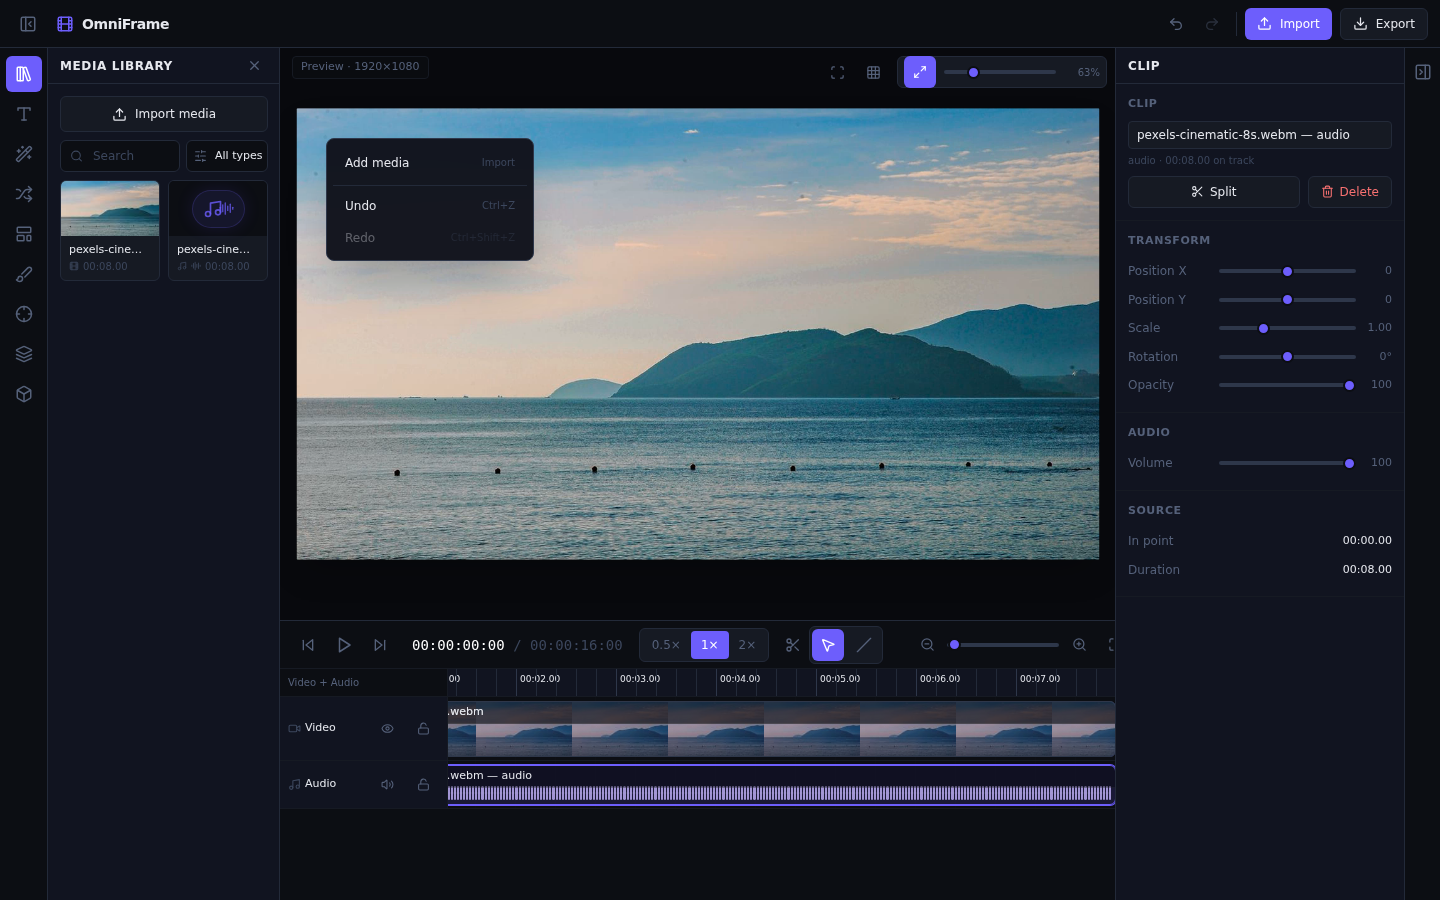
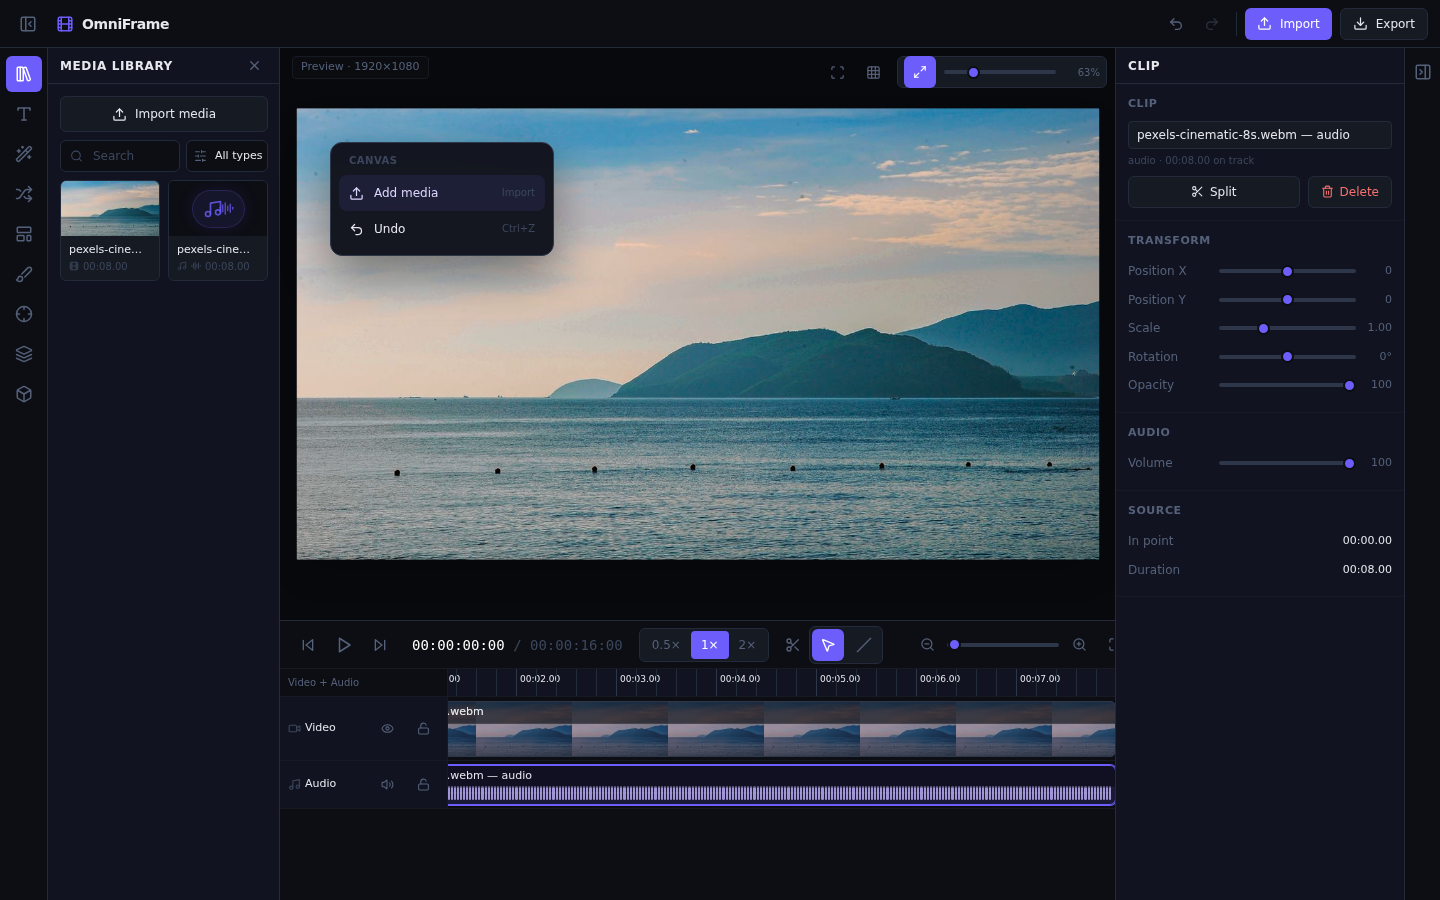
Centralize target-aware editor context menus

Changed region(s): [[0.2188, 0.1556, 0.4062, 0.3111]]

diff --git a/src/Studio.tsx b/src/Studio.tsx
@@ -1,5 +1,16 @@
-import { useEffect, useState } from 'react'
+import { useEffect, useRef, useState } from 'react'
+import { Clipboard, Copy, Scissors, Trash2, Upload, Files, AudioLines, Undo2, Redo2 } from 'lucide-react'
 import { useEditor } from './store'
+import type { Clip } from './types'
+import { readClipClipboard, writeClipClipboard } from './lib/clipClipboard'
+
+type ContextTarget =
+  | { type: 'EMPTY_EDITOR' }
+  | { type: 'CANVAS' }
+  | { type: 'MEDIA_PANEL' }
+  | { type: 'VIDEO_CLIP' | 'AUDIO_CLIP' | 'IMAGE_CLIP'; clip: Clip }
+
+type ContextState = ContextTarget & { x: number; y: number; anchorX: number; anchorY: number }
 import { TopBar } from './components/TopBar'
 import { LeftDock } from './components/LeftDock'
 import { Preview } from './components/Preview'
@@ -20,7 +31,10 @@ export default function Studio() {
   const setSpeed = useEditor((s) => s.setSpeed)
   const canUndo = useEditor((s) => s.past.length > 0)
   const canRedo = useEditor((s) => s.future.length > 0)
-  const [contextMenu, setContextMenu] = useState<{ x: number; y: number } | null>(null)
+  const insertClipCopy = useEditor((s) => s.insertClipCopy)
+  const extractAudio = useEditor((s) => s.extractAudio)
+  const [contextMenu, setContextMenu] = useState<ContextState | null>(null)
+  const menuRef = useRef<HTMLDivElement>(null)
 
   useEffect(() => {
     if (!contextMenu) return
@@ -128,15 +142,50 @@ export default function Studio() {
     return () => window.removeEventListener('resize', onResize)
   }, [])
 
+  const clipboardClip = readClipClipboard()
+  const contextCommands = contextMenu ? (
+    'clip' in contextMenu
+      ? [
+          { id: 'cut', label: 'Cut', shortcut: 'Ctrl+X', icon: Scissors, run: () => { writeClipClipboard(contextMenu.clip); removeClip(contextMenu.clip.id) } },
+          { id: 'copy', label: 'Copy', shortcut: 'Ctrl+C', icon: Copy, run: () => { writeClipClipboard(contextMenu.clip) } },
+          ...(clipboardClip ? [{ id: 'paste', label: 'Paste at playhead', shortcut: 'Ctrl+V', icon: Clipboard, run: () => insertClipCopy(clipboardClip!, useEditor.getState().playhead) }] : []),
+          { id: 'duplicate', label: 'Duplicate', shortcut: 'Ctrl+D', icon: Files, run: () => insertClipCopy(contextMenu.clip, contextMenu.clip.start + contextMenu.clip.duration) },
+          ...(contextMenu.type === 'VIDEO_CLIP' ? [{ id: 'separate-audio', label: 'Separate audio', icon: AudioLines, run: () => void extractAudio(contextMenu.clip.id) }] : []),
+          { id: 'delete', label: 'Delete', shortcut: 'Delete', icon: Trash2, destructive: true, run: () => removeClip(contextMenu.clip.id) },
+        ]
+      : [
+          { id: 'add-media', label: contextMenu.type === 'MEDIA_PANEL' ? 'Import media' : 'Add media', shortcut: 'Import', icon: Upload, primary: true, run: () => document.getElementById('topbar-import-input')?.click() },
+          ...(canUndo ? [{ id: 'undo', label: 'Undo', shortcut: 'Ctrl+Z', icon: Undo2, run: undo }] : []),
+          ...(canRedo ? [{ id: 'redo', label: 'Redo', shortcut: 'Ctrl+Shift+Z', icon: Redo2, run: redo }] : []),
+        ]
+  ) : []
+
   return (
     <div
       className="h-full w-full flex flex-col bg-ink-950 text-ink-100 overflow-hidden no-select"
-      onContextMenu={(event) => {
+      onContextMenuCapture={(event) => {
+        const element = event.target as HTMLElement
+        // Preserve native editing commands for genuine editable fields.
+        if (element.closest('input, textarea, [contenteditable="true"]')) return
         event.preventDefault()
-        setContextMenu({
-          x: Math.max(8, Math.min(event.clientX, window.innerWidth - 216)),
-          y: Math.max(8, Math.min(event.clientY, window.innerHeight - 152)),
-        })
+        event.stopPropagation()
+        // An open popup owns its interaction; never cover it with a parent menu.
+        if (element.closest('[role="menu"], [role="listbox"], select, option')) return
+        const clipElement = element.closest<HTMLElement>('[data-testid="timeline-clip"]')
+        const clip = clipElement ? useEditor.getState().clips.find((item) => item.id === clipElement.dataset.clipId) : undefined
+        const target: ContextTarget = clip
+          ? { type: clip.kind === 'audio' ? 'AUDIO_CLIP' : clip.kind === 'image' ? 'IMAGE_CLIP' : 'VIDEO_CLIP', clip }
+          : element.closest('[data-testid="preview-stage"]')
+            ? { type: 'CANVAS' }
+            : element.closest('[data-testid="media-library"]')
+              ? { type: 'MEDIA_PANEL' }
+              : { type: 'EMPTY_EDITOR' }
+        const width = 224
+        const height = 'clip' in target ? (target.type === 'VIDEO_CLIP' ? 260 : 220) : 144
+        const margin = 8, offset = 4
+        const x = event.clientX + width + offset <= window.innerWidth - margin ? event.clientX + offset : event.clientX - width - offset
+        const y = event.clientY + height + offset <= window.innerHeight - margin ? event.clientY + offset : event.clientY - height - offset
+        setContextMenu({ ...target, x: Math.max(margin, x), y: Math.max(margin, y), anchorX: event.clientX, anchorY: event.clientY })
       }}
       onDragOver={(e) => e.preventDefault()}
       onDrop={(e) => {
@@ -155,27 +204,39 @@ export default function Studio() {
       </div>
       {contextMenu && (
         <div
+          ref={menuRef}
           data-testid="studio-context-menu"
+          data-context-target={contextMenu.type}
+          data-anchor-x={contextMenu.anchorX}
+          data-anchor-y={contextMenu.anchorY}
           role="menu"
-          aria-label="Studio actions"
-          className="fixed z-[70] w-52 rounded-lg border border-ink-600 bg-[#11131d]/[0.98] p-1.5 text-xs text-ink-200 shadow-2xl backdrop-blur-xl"
+          aria-label={`${contextMenu.type.toLowerCase().replace(/_/g, ' ')} actions`}
+          className="fixed z-[70] w-56 max-h-[min(420px,calc(100vh-16px))] overflow-y-auto rounded-xl border border-ink-600 bg-[#11131d]/[0.98] p-2 text-xs text-ink-200 shadow-[0_18px_48px_rgba(0,0,0,.42)] backdrop-blur-xl"
           style={{ left: contextMenu.x, top: contextMenu.y }}
           onContextMenu={(event) => event.preventDefault()}
           onPointerDown={(event) => event.stopPropagation()}
         >
-          <button
-            role="menuitem"
-            onClick={() => {
-              document.getElementById('topbar-import-input')?.click()
-              setContextMenu(null)
-            }}
-            className="flex h-9 w-full items-center justify-between rounded-md px-3 text-left font-medium hover:bg-ink-700 focus-visible:outline-none focus-visible:ring-2 focus-visible:ring-brand"
-          >
-            <span>Add media</span><span className="text-[10px] font-normal text-ink-500">Import</span>
-          </button>
-          <div className="my-1 border-t border-ink-700" />
-          <button role="menuitem" disabled={!canUndo} onClick={() => { undo(); setContextMenu(null) }} className="flex h-8 w-full items-center justify-between rounded-md px-3 text-left hover:bg-ink-700 focus-visible:outline-none focus-visible:ring-2 focus-visible:ring-brand disabled:opacity-35 disabled:hover:bg-transparent"><span>Undo</span><span className="text-[10px] text-ink-500">Ctrl+Z</span></button>
-          <button role="menuitem" disabled={!canRedo} onClick={() => { redo(); setContextMenu(null) }} className="flex h-8 w-full items-center justify-between rounded-md px-3 text-left hover:bg-ink-700 focus-visible:outline-none focus-visible:ring-2 focus-visible:ring-brand disabled:opacity-35 disabled:hover:bg-transparent"><span>Redo</span><span className="text-[10px] text-ink-500">Ctrl+Shift+Z</span></button>
+          <div className="px-2.5 pb-1.5 pt-0.5 text-[10px] font-semibold uppercase tracking-wider text-ink-500">
+            {contextMenu.type.replace(/_/g, ' ')}
+          </div>
+          {contextCommands.map((command, index) => {
+            const Icon = command.icon
+            const destructive = 'destructive' in command && command.destructive
+            const primary = 'primary' in command && command.primary
+            return (
+              <button
+                key={command.id}
+                role="menuitem"
+                autoFocus={index === 0}
+                onClick={() => { command.run(); setContextMenu(null) }}
+                className={`flex h-9 w-full items-center gap-2.5 rounded-lg px-2.5 text-left font-medium outline-none transition-colors focus-visible:ring-2 focus-visible:ring-brand ${destructive ? 'text-red-400 hover:bg-red-500/10' : primary ? 'bg-brand/10 text-violet-200 hover:bg-brand/20' : 'hover:bg-ink-700'}`}
+              >
+                <Icon size={15} aria-hidden="true" className="shrink-0" />
+                <span className="min-w-0 flex-1 truncate">{command.label}</span>
+                {'shortcut' in command && command.shortcut && <span className="shrink-0 text-[10px] font-normal text-ink-500">{command.shortcut}</span>}
+              </button>
+            )
+          })}
         </div>
       )}
     </div>

diff --git a/src/components/Timeline.tsx b/src/components/Timeline.tsx
@@ -24,12 +24,12 @@ import { useEditor } from '../store'
 import type { Clip, MediaAsset, Track } from '../types'
 import { chooseTickInterval, formatTimecode, formatClock, uid, clamp } from '../lib/time'
 import { IconButton, Segmented } from './ui'
+import { readClipClipboard, writeClipClipboard } from '../lib/clipClipboard'
 
 const RULER_H = 28
 const HEADER_W = 168
 const FPS = 30
 const MAX_PX = 8000 // high enough that one frame spans many pixels (true frame-level zoom)
-let clipClipboard: Clip | null = null
 
 // Snap a time value to nearby clip edges and the playhead.
 function snapTime(value: number): number {
@@ -69,7 +69,6 @@ function ClipView({
   selected,
   lanesRef,
   tracks,
-  onContextMenu,
 }: {
   clip: Clip
   asset?: MediaAsset
@@ -78,7 +77,6 @@ function ClipView({
   selected: boolean
   lanesRef: React.RefObject<HTMLDivElement>
   tracks: Track[]
-  onContextMenu: (event: React.MouseEvent, clip: Clip) => void
 }) {
   const moveClip = useEditor((s) => s.moveClip)
   const trimClip = useEditor((s) => s.trimClip)
@@ -161,7 +159,6 @@ function ClipView({
       data-duration={clip.duration.toFixed(4)}
       data-in-point={clip.inPoint.toFixed(4)}
       data-volume={clip.volume.toFixed(3)}
-      onContextMenu={(event) => onContextMenu(event, clip)}
       onPointerDown={onDown('move')}
       onPointerMove={onMove}
       onPointerUp={onUp}
@@ -313,11 +310,8 @@ export function Timeline() {
   const setZoom = useEditor((s) => s.setZoom)
   const zoomBy = useEditor((s) => s.zoomBy)
   const selectedClipId = useEditor((s) => s.selectedClipId)
-  const selectClip = useEditor((s) => s.selectClip)
   const removeClip = useEditor((s) => s.removeClip)
   const insertClipCopy = useEditor((s) => s.insertClipCopy)
-  const extractAudio = useEditor((s) => s.extractAudio)
-  const [contextMenu, setContextMenu] = useState<{ x: number; y: number; clip: Clip } | null>(null)
 
   const scrollRef = useRef<HTMLDivElement>(null)
   const lanesRef = useRef<HTMLDivElement>(null)
@@ -339,10 +333,10 @@ export function Timeline() {
       const selected = useEditor.getState().clips.find((clip) => clip.id === useEditor.getState().selectedClipId)
       const key = event.key.toLowerCase()
       if ((key === 'c' || key === 'x') && selected) {
-        event.preventDefault(); clipClipboard = structuredClone(selected)
+        event.preventDefault(); writeClipClipboard(selected)
         if (key === 'x') removeClip(selected.id)
-      } else if (key === 'v' && clipClipboard) {
-        event.preventDefault(); insertClipCopy(clipClipboard, useEditor.getState().playhead)
+      } else if (key === 'v' && readClipClipboard()) {
+        event.preventDefault(); insertClipCopy(readClipClipboard()!, useEditor.getState().playhead)
       } else if (key === 'd' && selected) {
         event.preventDefault(); insertClipCopy(selected, selected.start + selected.duration)
       }
@@ -351,21 +345,6 @@ export function Timeline() {
     return () => window.removeEventListener('keydown', onClipboardKey)
   }, [insertClipCopy, removeClip])
 
-  useEffect(() => {
-    if (!contextMenu) return
-    const close = () => setContextMenu(null)
-    const key = (event: KeyboardEvent) => { if (event.key === 'Escape') close() }
-    window.addEventListener('pointerdown', close)
-    window.addEventListener('keydown', key)
-    return () => { window.removeEventListener('pointerdown', close); window.removeEventListener('keydown', key) }
-  }, [contextMenu])
-
-  const openContextMenu = (event: React.MouseEvent, clip: Clip) => {
-    event.preventDefault()
-    event.stopPropagation()
-    selectClip(clip.id)
-    setContextMenu({ x: Math.min(event.clientX, window.innerWidth - 220), y: Math.min(event.clientY, window.innerHeight - 260), clip })
-  }
 
   const fitZoom = () => {
     const el = scrollRef.current
@@ -648,7 +627,6 @@ export function Timeline() {
                         selected={c.id === selectedClipId}
                         lanesRef={lanesRef}
                         tracks={tracks}
-                        onContextMenu={openContextMenu}
                       />
                     </div>
                   )
@@ -661,50 +639,7 @@ export function Timeline() {
           </div>
         </div>
       </div>
-      {contextMenu && (
-        <div
-          data-testid="clip-context-menu"
-          role="menu"
-          className="fixed z-50 w-52 rounded-lg border border-ink-600 bg-[#11131d]/[0.98] p-1.5 text-xs text-ink-200 shadow-2xl backdrop-blur-xl"
-          style={{ left: contextMenu.x, top: contextMenu.y }}
-          onPointerDown={(event) => event.stopPropagation()}
-        >
-          {[
-            ['Cut', 'Ctrl+X', () => { clipClipboard = structuredClone(contextMenu.clip); removeClip(contextMenu.clip.id) }],
-            ['Copy', 'Ctrl+C', () => { clipClipboard = structuredClone(contextMenu.clip) }],
-            ['Paste', 'Ctrl+V', () => { if (clipClipboard) insertClipCopy(clipClipboard, useEditor.getState().playhead) }, !clipClipboard],
-            ['Duplicate', 'Ctrl+D', () => insertClipCopy(contextMenu.clip, contextMenu.clip.start + contextMenu.clip.duration)],
-            ['Delete', 'Delete', () => removeClip(contextMenu.clip.id)],
-          ].map(([label, shortcut, action, disabled]) => (
-            <button key={String(label)} role="menuitem" disabled={Boolean(disabled)} onClick={() => { (action as () => void)(); setContextMenu(null) }} className="flex h-8 w-full items-center justify-between rounded-md px-2.5 text-left hover:bg-ink-700 disabled:opacity-35 disabled:hover:bg-transparent">
-              <span>{String(label)}</span><span className="text-[10px] text-ink-500">{String(shortcut)}</span>
-            </button>
-          ))}
-          {contextMenu.clip.kind === 'video' && (
-            <>
-              <div className="my-1 border-t border-ink-700" />
-              <button role="menuitem" onClick={() => { void extractAudio(contextMenu.clip.id); setContextMenu(null) }} className="flex h-8 w-full items-center rounded-md px-2.5 text-left hover:bg-ink-700">Separate audio</button>
-            </>
-          )}
-          {Boolean((window as typeof window & { __TAURI_INTERNALS__?: unknown }).__TAURI_INTERNALS__) && (
-            <>
-              <div className="my-1 border-t border-ink-700" />
-              <button role="menuitem" onClick={() => {
-                localStorage.setItem('omniframe.clipPreset', JSON.stringify({ transform: contextMenu.clip.transform, volume: contextMenu.clip.volume }))
-                setContextMenu(null)
-              }} className="flex h-8 w-full items-center rounded-md px-2.5 text-left hover:bg-ink-700">Save clip preset</button>
-              {localStorage.getItem('omniframe.clipPreset') && (
-                <button role="menuitem" onClick={() => {
-                  const preset = JSON.parse(localStorage.getItem('omniframe.clipPreset') || '{}') as { transform?: Clip['transform']; volume?: number }
-                  if (preset.transform) useEditor.getState().setClipTransform(contextMenu.clip.id, preset.transform)
-                  if (typeof preset.volume === 'number') useEditor.getState().setClipProp(contextMenu.clip.id, { volume: preset.volume })
-                  setContextMenu(null)
-                }} className="flex h-8 w-full items-center rounded-md px-2.5 text-left hover:bg-ink-700">Apply saved preset</button>
-              )}
-            </>
-          )}
-        </div>
-      )}
+
     </div>
   )
 }

diff --git a/src/lib/clipClipboard.ts b/src/lib/clipClipboard.ts
@@ -1,0 +1,11 @@
+import type { Clip } from '../types'
+
+let clip: Clip | null = null
+
+export function readClipClipboard(): Clip | null {
+  return clip ? structuredClone(clip) : null
+}
+
+export function writeClipClipboard(value: Clip): void {
+  clip = structuredClone(value)
+}

diff --git a/MEMORY.md b/MEMORY.md
@@ -4906,3 +4906,15 @@ This addendum supersedes earlier `NOT-TESTED` backlog rows where the same named 
 - [SCREENSHOT] `qa/screenshots/studio-context-menu-mobile-390x844.png` shows safe mobile placement.
 - [BUILD] PASS TypeScript, Vite production build, and whitespace checks.
 - [SCOPE] The pasted Chapel Lane dialog specification refers to a component not present in OmniFrame; no unrelated fake modal was introduced.
+
+# Centralized target-aware context resolver — 2026-09-22
+
+- [ARCHITECTURE] Replaced reachable per-Timeline right-click rendering with one Studio capture-phase resolver and one menu renderer.
+- [TARGETING] Resolver uses the physical DOM surface under the pointer, not current selection; current implemented types are EMPTY_EDITOR, CANVAS, MEDIA_PANEL, VIDEO_CLIP, AUDIO_CLIP, and IMAGE_CLIP.
+- [OWNERSHIP] Inputs, textareas, contenteditable surfaces, selects, options, menus, and listboxes retain native/popup ownership and are not covered by an OmniFrame menu.
+- [POSITIONING] Menu opens right/down when space permits and flips left/up near viewport edges, preserving an 8px safe area.
+- [DESIGN] Added compact 224px surface, restrained elevation, target label, Lucide icons, 36px actions, clear primary action, keyboard focus ring, hidden irrelevant actions, and separated destructive styling.
+- [STATE] Context opening does not change selection or automatically open Inspector/panels.
+- [COMMANDS] Shared clip clipboard now serves both context commands and keyboard shortcuts.
+- [QA] Playwright context suite passes 28 assertions with zero runtime errors, including input/select ownership and continued usability.
+- [LIMITATION] Track header/lane, ruler, gap, and playhead-specific command sets remain explicit future work; unsupported target types are not faked.

diff --git a/qa/reports/context-menu-tests.md b/qa/reports/context-menu-tests.md
@@ -1,0 +1,15 @@
+# Context menu regression matrix
+
+| Target | Resolved type | Allowed | Forbidden verified | Result |
+|---|---|---|---|---|
+| Video clip | VIDEO_CLIP | Cut, Copy, Duplicate, Separate audio, Delete | Group, Transcribe, Compound, web preset | PASS |
+| Canvas | CANVAS | Add media, available history commands | Clip commands | PASS |
+| Generic narrow surface | EMPTY_EDITOR | Add media, available history commands | Clip commands | PASS |
+| Text input | native | Browser text editing context | OmniFrame overlay | PASS |
+| Type select | native/popup owner | Existing select interaction | OmniFrame overlay | PASS |
+
+Additional verified behavior: hidden Paste before clipboard content, visible Paste after Copy, real multi-file chooser, Escape close, collision-safe 390×844 placement, keyboard Cut/Paste/Duplicate, real Separate audio, and zero runtime errors.
+
+## Honest remaining scope
+
+Track headers, lanes, ruler, gaps, and playhead need explicit DOM semantics and command implementations before they can receive specialized menus. Unsupported clip/object types are intentionally not represented as if functional.

diff --git a/qa/reports/timeline-hit-test-report.md b/qa/reports/timeline-hit-test-report.md
@@ -1,0 +1,15 @@
+# Timeline hit-test report
+
+The centralized capture-phase resolver uses the actual event target and `closest()` semantic surface rather than current selection.
+
+Current priority:
+1. input / textarea / contenteditable → native ownership
+2. menu / listbox / select / option → popup ownership
+3. physical timeline clip → typed from clip data and project store
+4. preview stage → canvas
+5. media library → media panel
+6. editor remainder → empty editor
+
+A VIDEO_CLIP target was resolved from a real filmstrip under the pointer. A subsequent canvas right-click resolved CANVAS and contained no clip commands. The resolver does not change selection merely to determine context.
+
+Track lane, header, ruler, gap, and playhead semantics remain explicitly listed as future work rather than guessed from current selection.

diff --git a/qa/reports/overlay-z-index-report.md b/qa/reports/overlay-z-index-report.md
@@ -1,0 +1,9 @@
+# Overlay and ownership report
+
+- Context menu: fixed positioning, z-index 70, maximum viewport-relative height, vertical scrolling only when required.
+- Collision strategy: open right/down when space permits; flip left/up near the corresponding edge; maintain an 8px safe margin.
+- Capture-phase resolver prevents child timeline handlers from stealing the event.
+- Editable inputs preserve native context behavior.
+- Selects, options, listboxes, and existing menus retain popup ownership and do not mount an OmniFrame context menu over themselves.
+- Pointer-down inside the context menu does not trigger outside-close; outside pointer-down and Escape close it.
+- Context opening does not mutate selectedClipId, rightOpen, playback, playhead, or workspace layout.

diff --git a/qa/reports/dead-control-report.md b/qa/reports/dead-control-report.md
@@ -1,0 +1,12 @@
+# Context-menu dead-control report
+
+Focused scope: commands rendered by the centralized context-menu registry.
+
+- Commands rendered: 9 command IDs across implemented target states.
+- Commands with implementations: 9.
+- Placeholder/TODO/console-only commands: 0.
+- Irrelevant unavailable commands are hidden, including Paste before clipboard content.
+- Destructive Delete is visually separated with red treatment and uses undo-aware `removeClip`.
+- Unsupported requested targets and operations are not rendered.
+
+This is not a claim that every control in the entire application has been exhaustively audited; it records the completed context-menu command scope.

diff --git a/qa/reports/popup-regression-report.md b/qa/reports/popup-regression-report.md
@@ -1,0 +1,17 @@
+# Popup regression report
+
+PASS: text input right-click does not mount OmniFrame context menu.
+
+PASS: input remains writable after right-click.
+
+PASS: media type select right-click does not mount OmniFrame context menu.
+
+PASS: select remains changeable after right-click.
+
+PASS: only one centralized Studio context menu is reachable; legacy Timeline renderer and handler were removed.
+
+PASS: Escape closes the active context menu.
+
+PASS: right-clicking canvas after clip interaction replaces context with CANVAS commands and no clip commands.
+
+PASS: 390×844 menu bounds remained inside the 8px safe viewport area.

diff --git a/qa/reports/playwright-context-menu-report.md b/qa/reports/playwright-context-menu-report.md
@@ -1,0 +1,10 @@
+# Playwright context-menu report
+
+Automated browser result: **28 PASS**, zero runtime errors.
+
+Evidence screenshots:
+- `qa/screenshots/timeline-clip-context-menu.png`
+- `qa/screenshots/studio-context-menu-desktop.png`
+- `qa/screenshots/studio-context-menu-mobile-390x844.png`
+
+Verified real outcomes include independent clip duplication, keyboard cut/paste, extracted audio track creation, real file chooser opening, target-specific command filtering, native input/select ownership, Escape dismissal, and mobile collision handling.
